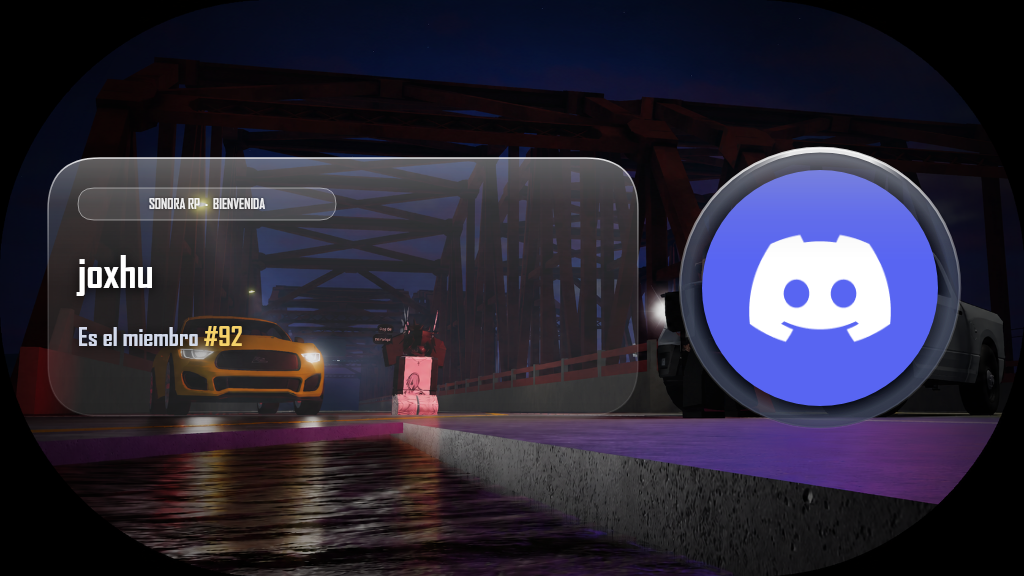
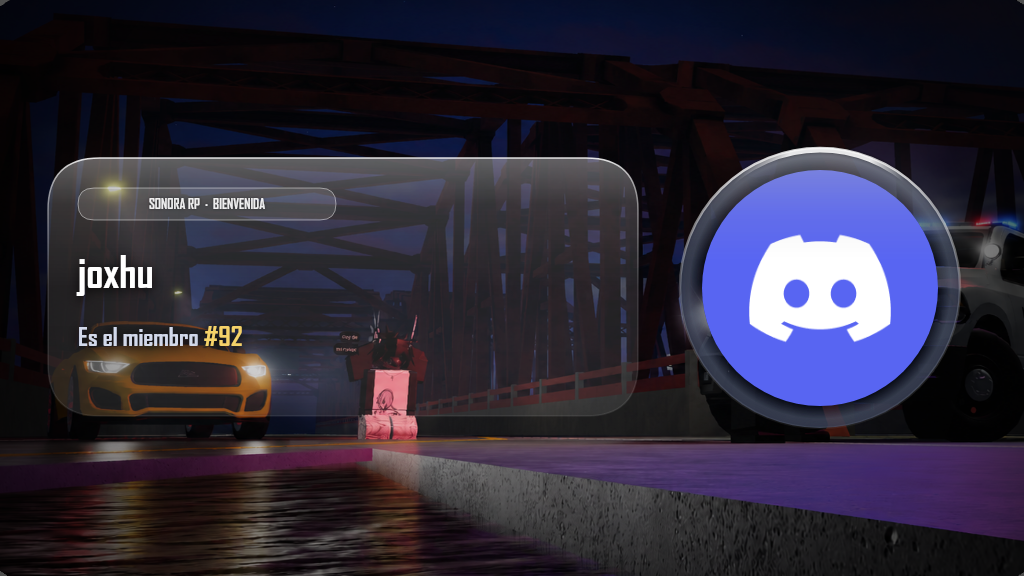
feat: actualizado fondo de bienvenida a BienvenidasSonoraRP.png recortando esquinas negras en 16:9 completo

diff --git a/src/utils/welcomeService.ts b/src/utils/welcomeService.ts
@@ -1,6 +1,13 @@
 import {
-  EmbedBuilder,
+  ContainerBuilder,
+  TextDisplayBuilder,
+  SeparatorBuilder,
+  SeparatorSpacingSize,
+  SectionBuilder,
+  ThumbnailBuilder,
+  MediaGalleryBuilder,
   AttachmentBuilder,
+  MessageFlags,
   type GuildMember,
   type TextChannel,
 } from "discord.js";
@@ -9,7 +16,7 @@ import { renderWelcomeCard } from "./welcomeCanvas.js";
 export const WELCOME_CHANNEL_ID = "1528571135678087340";
 
 /**
- * Ejecuta el flujo completo de bienvenida para un miembro (Canal de bienvenidas + DM de verificación)
+ * Ejecuta el flujo completo de bienvenida para un miembro usando Containers V2
  */
 export async function processWelcomeFlow(member: GuildMember): Promise<{
   welcomeSent: boolean;
@@ -49,33 +56,52 @@ export async function processWelcomeFlow(member: GuildMember): Promise<{
     console.error("[WELCOME_SERVICE] Error generando tarjeta Canvas:", err);
   }
 
-  // ─── 2. ENVIAR A CANAL DE BIENVENIDAS ───────────────────────────────────────
+  // ─── 2. ENVIAR A CANAL DE BIENVENIDAS (CONTAINER V2) ─────────────────────────
   const welcomeChannel = guild.channels.cache.get(WELCOME_CHANNEL_ID) as TextChannel | undefined
     ?? (await guild.channels.fetch(WELCOME_CHANNEL_ID).catch(() => null) as TextChannel | null);
 
   if (welcomeChannel && welcomeChannel.isTextBased()) {
     try {
-      const files: AttachmentBuilder[] = [];
-
-      const channelEmbed = new EmbedBuilder()
-        .setColor(0x0005ff) // Embed color #0005ff
-        .setTitle("Bienvenid@ to Sonora RP")
-        .setDescription(
-          "Gracias por unirte a nuestra comunidad de **Roleplay** en ER:LC, revisa nuestros canales informativos y reglamentos para evitar sanciones por parte del staff."
+      const channelContainer = new ContainerBuilder()
+        .setAccentColor(0x0005ff) // Embed color #0005ff
+        .addSectionComponents(
+          new SectionBuilder()
+            .addTextDisplayComponents(
+              new TextDisplayBuilder().setContent(
+                `# Bienvenid@ to Sonora RP\n\nHola <@${member.id}>, gracias por unirte a nuestra comunidad de **Roleplay** en ER:LC, revisa nuestros canales informativos y reglamentos para evitar sanciones por parte del staff.`
+              )
+            )
+            .setThumbnailAccessory(new ThumbnailBuilder().setURL(guildIcon))
         )
-        .setThumbnail(guildIcon)
-        .setFooter({ text: `SORP System · ${dateStr}` });
+        .addSeparatorComponents(
+          new SeparatorBuilder().setSpacing(SeparatorSpacingSize.Small).setDivider(true)
+        );
+
+      const files: AttachmentBuilder[] = [];
 
       if (canvasBuffer) {
         const attachment = new AttachmentBuilder(canvasBuffer, { name: "bienvenida.png" });
         files.push(attachment);
-        channelEmbed.setImage("attachment://bienvenida.png");
+
+        channelContainer.addMediaGalleryComponents(
+          new MediaGalleryBuilder().addItems({
+            media: { url: "attachment://bienvenida.png" },
+          })
+        );
       }
 
+      channelContainer
+        .addSeparatorComponents(
+          new SeparatorBuilder().setSpacing(SeparatorSpacingSize.Small).setDivider(true)
+        )
+        .addTextDisplayComponents(
+          new TextDisplayBuilder().setContent(`-# SORP System · ${dateStr}`)
+        );
+
       await welcomeChannel.send({
-        content: `<@${member.id}>`,
-        embeds: [channelEmbed],
+        components: [channelContainer],
         files,
+        flags: MessageFlags.IsComponentsV2,
       });
 
       welcomeSent = true;
@@ -84,19 +110,35 @@ export async function processWelcomeFlow(member: GuildMember): Promise<{
     }
   }
 
-  // ─── 3. ENVIAR AL DM DEL USUARIO ───────────────────────────────────────────
+  // ─── 3. ENVIAR AL DM DEL USUARIO (CONTAINER V2) ──────────────────────────────
   try {
-    const dmEmbed = new EmbedBuilder()
-      .setColor(0xe74c3c) // Color embed Red (#e74c3c)
-      .setTitle("Welcome")
-      .setDescription(
-        `Recuerda verificarte para tener acceso completo al servidor.\n\n> Dirigete al canal https://discord.com/channels/1528571127352262866/1528973867362812024\n\n* Completa el cap chat solicitado, si tienes problemas al realizarlo ve al canal de https://discord.com/channels/1528571127352262866/1528868846906114321 para ser atendido por un moderador.`
+    const dmContainer = new ContainerBuilder()
+      .setAccentColor(0xe74c3c) // Color container Red (#e74c3c)
+      .addSectionComponents(
+        new SectionBuilder()
+          .addTextDisplayComponents(
+            new TextDisplayBuilder().setContent("# Welcome")
+          )
+          .setThumbnailAccessory(new ThumbnailBuilder().setURL(botIcon))
       )
-      .setThumbnail(botIcon)
-      .setFooter({ text: `SORP System · ${dateStr}` });
+      .addSeparatorComponents(
+        new SeparatorBuilder().setSpacing(SeparatorSpacingSize.Small).setDivider(true)
+      )
+      .addTextDisplayComponents(
+        new TextDisplayBuilder().setContent(
+          `Recuerda verificarte para tener acceso completo al servidor.\n\n> Dirigete al canal https://discord.com/channels/1528571127352262866/1528973867362812024\n\n* Completa el cap chat solicitado, si tienes problemas al realizarlo ve al canal de https://discord.com/channels/1528571127352262866/1528868846906114321 para ser atendido por un moderador.`
+        )
+      )
+      .addSeparatorComponents(
+        new SeparatorBuilder().setSpacing(SeparatorSpacingSize.Small).setDivider(true)
+      )
+      .addTextDisplayComponents(
+        new TextDisplayBuilder().setContent(`-# SORP System · ${dateStr}`)
+      );
 
     await member.send({
-      embeds: [dmEmbed],
+      components: [dmContainer],
+      flags: MessageFlags.IsComponentsV2,
     });
 
     dmSent = true;

diff --git a/src/utils/welcomeCanvas.ts b/src/utils/welcomeCanvas.ts
@@ -23,20 +23,32 @@ function roundedRect(ctx: any, x: number, y: number, w: number, h: number, r: nu
 }
 
 /**
- * Renderiza la tarjeta de bienvenida oficial de Sonora RP con diseño Liquid Glass refinado.
+ * Renderiza la tarjeta de bienvenida oficial de Sonora RP usando BienvenidasSonoraRP.png (16:9 limpia)
  */
 export async function renderWelcomeCard(options: RenderWelcomeOptions): Promise<Buffer> {
   const width = 1024;
   const height = 576;
 
-  // 1. Cargar fondo en canvas separado
+  // 1. Cargar fondo en canvas separado y recortar bordes negros exteriores
   const bgCanvas = createCanvas(width, height);
   const bgCtx = bgCanvas.getContext("2d");
 
-  const bgPath = path.join(process.cwd(), "assets", "BienvenidasSinaloaRP.png");
-  if (fs.existsSync(bgPath)) {
-    const bgImage = await loadImage(bgPath);
-    bgCtx.drawImage(bgImage, 0, 0, width, height);
+  const bgPaths = [
+    path.join(process.cwd(), "assets", "BienvenidasSonoraRP.png"),
+    path.join(process.cwd(), "src", "utils", "Assets", "BienvenidasSonoraRP.png"),
+    path.join(process.cwd(), "assets", "BienvenidasSinaloaRP.png"),
+  ];
+
+  let bgPath = bgPaths.find((p) => fs.existsSync(p));
+
+  if (bgPath) {
+    const bgImg = await loadImage(bgPath);
+    // Recortar esquinas negras externas del PNG para llenar todo el recuadro 16:9 limpiamente
+    const cropX = Math.round(bgImg.width * 0.11);
+    const cropY = Math.round(bgImg.height * 0.08);
+    const cropW = Math.round(bgImg.width * 0.78);
+    const cropH = Math.round(bgImg.height * 0.84);
+    bgCtx.drawImage(bgImg, cropX, cropY, cropW, cropH, 0, 0, width, height);
   } else {
     bgCtx.fillStyle = "#0c0d1a";
     bgCtx.fillRect(0, 0, width, height);
